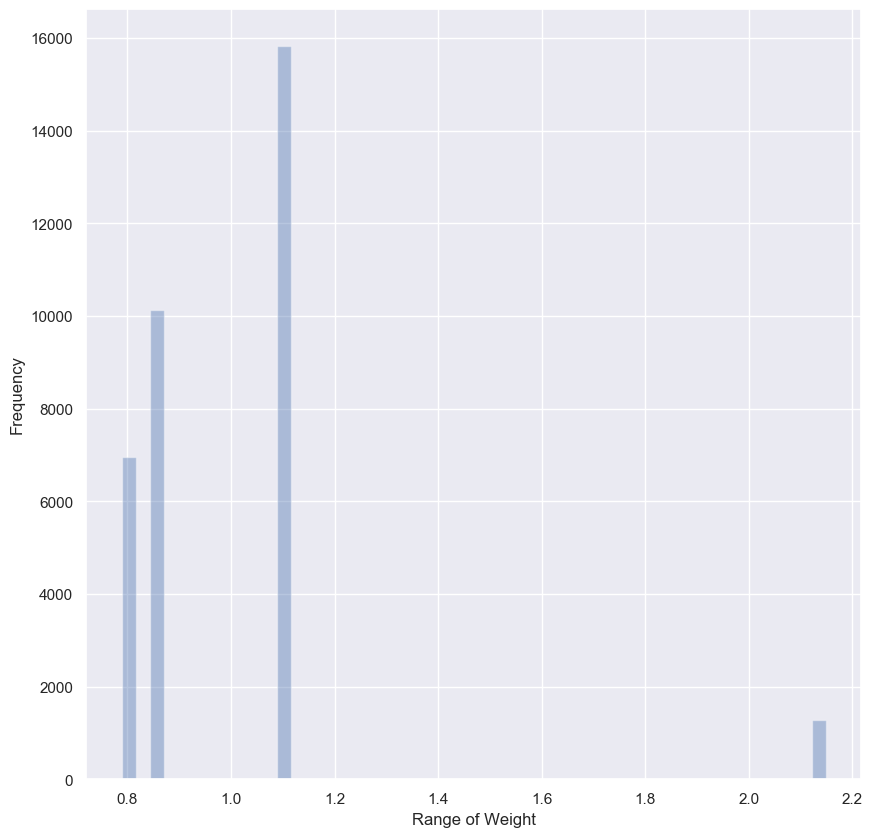
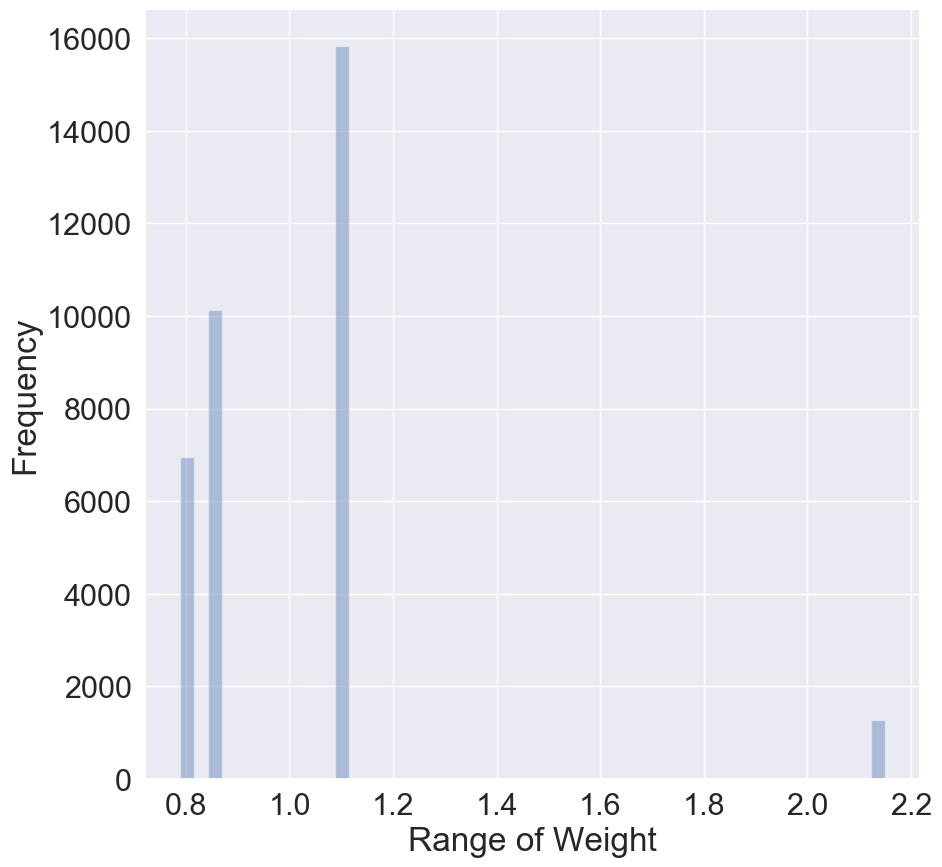
Fully working code with cross validation plots

diff --git a/intro.py b/intro.py
@@ -65,35 +65,6 @@ def fit_classifier(classifier, weights, lambda_values, X_train, y_train, X_test,
     return accuracy_list, equal_opp_list, stat_parity_list
 
 
-def plot_analysis(filename, lambda_values, accuracy_list, fairness_metric_list, fairness_metric):
-    '''
-    Function to plot graph with performance of different classifiers
-    
-    Args: 
-        filename: name of file to store the plot
-        accuracy_list: test accuracy for each model
-        fairness_metric_list: Fairness metric list for each model
-        fairness_metric: Fairness metric label
-    '''    
-    plt.xscale("log")
-    ax = sns.lineplot(x=lambda_values, y=fairness_metric_list, label=fairness_metric)
-    ax2 = ax.twinx()
-    sns.lineplot(x=lambda_values, y=accuracy_list, color="g", ax=ax2, label="Accuracy")
-    ax.figure.legend()
-    ax.set_xlabel(r'Lambda ($\lambda$)')
-    ax.set_ylabel(fairness_metric)
-    ax2.set_ylabel(r'Accuracy')
-    ax.legend().remove()
-    ax2.legend().remove()
-    ax.set_yticks(np.linspace(ax.get_yticks()[0], ax.get_yticks()[-1], 8))
-    ax2.set_yticks(np.linspace(ax2.get_yticks()[0], ax2.get_yticks()[-1], 8))
-    ax.set_yticklabels(['{:.3f}'.format(float(t)) for t in ax.get_yticks()])
-    ax2.set_yticklabels(['{:.3f}'.format(float(t)) for t in ax2.get_yticks()])
-    plt.savefig(f'{filename}.png', bbox_inches='tight')    
-    # plt.show()
-    plt.clf()
-
-
 def k_fold_statistics(k_folds, classifier, lambda_value, dataset, unprivileged_groups, privileged_groups):
     '''
     Function to fit classifier to k number of random train/test splits
@@ -147,30 +118,63 @@ def k_fold_statistics(k_folds, classifier, lambda_value, dataset, unprivileged_g
     accuracy_list = np.array(accuracy_list)
     equal_opp_list = np.array(equal_opp_list)
     stat_parity_list = np.array(stat_parity_list)
-    print(f'The mean accuracy for lambda={lambda_value:.3f} is: \n Mean Accuracy: {np.mean(accuracy_list):.3f}, Std: {np.std(accuracy_list):.3f} \n Mean Equal Opportunity: {np.mean(equal_opp_list):.3f}, Std: {np.std(equal_opp_list):.3f}')
+    print(f'The mean accuracy for lambda={lambda_value:.3f} is:')
+    print(f'Mean Accuracy: {np.mean(accuracy_list):.3f}, Std: {np.std(accuracy_list):.3f}')
+    print(f'Mean Equal Opportunity: {np.mean(equal_opp_list):.3f}, Std: {np.std(equal_opp_list):.3f}') 
+    print(f'Mean Statistical Parity: {np.mean(stat_parity_list):.3f}, Std: {np.std(stat_parity_list):.3f}')
     
     return accuracy_list, equal_opp_list, stat_parity_list
 
 
-if __name__ == "__main__":
-
-    #******************
-    # Step 0 - Choose Dataset and classifier type
-    data_choice = "adult"
-    classifier_choice = "Logistic Regression"
-
-    #*******************    
-    # Step 1 - Get data and plot distribution
-    privileged_groups = [{'sex': 1}]
-    unprivileged_groups = [{'sex': 0}]
-    if data_choice == "adult":
-        dataset_orig = load_preproc_data_adult(['sex'])
-    elif data_choice == "compas":
-        dataset_orig = load_preproc_data_compas(['sex'])
-    else:
-        dataset_orig = load_preproc_data_german(['sex'])
-    print(dataset_orig)
+def plot_analysis(filename, lambda_values, accuracy_list, fairness_metric_list_1, fairness_metric_1,
+                    fairness_metric_list_2, fairness_metric_2,):
+    '''
+    Function to plot graph with performance of different classifiers
     
+    Args: 
+        filename: name of file to store the plot
+        accuracy_list: test accuracy for each model
+        fairness_metric_list_1: Fairness metric list for each model
+        fairness_metric_1: Fairness metric label
+        fairness_metric_list_2: Fairness metric list for each model
+        fairness_metric_2: Fairness metric label
+
+    '''    
+    sns.set(font_scale=2)
+    plt.xscale("log")
+    ax = sns.lineplot(x=lambda_values, y=fairness_metric_list_1, label=fairness_metric_1)
+    ax = sns.lineplot(x=lambda_values, y=fairness_metric_list_2, label=fairness_metric_2)
+    ax2 = ax.twinx()
+    sns.lineplot(x=lambda_values, y=accuracy_list, color="g", ax=ax2, label="Accuracy")
+    ax.figure.legend()
+    ax.set_xlabel(r'Lambda ($\lambda$)')
+    ax.set_ylabel('Fairness Metric Difference')
+    ax2.set_ylabel(r'Accuracy')
+    ax.legend().remove()
+    ax2.legend().remove()
+    ax.set_yticks(np.linspace(ax.get_yticks()[0], ax.get_yticks()[-1], 8))
+    ax2.set_yticks(np.linspace(ax2.get_yticks()[0], ax2.get_yticks()[-1], 8))
+    ax.set_yticklabels(['{:.3f}'.format(float(t)) for t in ax.get_yticks()])
+    ax2.set_yticklabels(['{:.3f}'.format(float(t)) for t in ax2.get_yticks()])
+    plt.savefig(f'{filename}.png', bbox_inches='tight')    
+    # plt.show()
+    plt.clf()
+
+
+
+def plot_distribution(dataset_orig, data_choice):
+    '''
+    Function to plot the data distribution - label for each of the sensitive features
+    
+    Args:
+        k_folds: number of folds of statistics
+        classifier: SVM or Logistic regression
+        weights: weights for each sample
+        lambda_value: selected level of regularisation
+        dataset: dataset to be used
+
+    '''
+
     female_filter = (dataset_orig.features[:,1])==0
     male_filter = (dataset_orig.features[:,1])==1
     female_1 = np.count_nonzero(dataset_orig.labels[female_filter]==1)
@@ -178,11 +182,18 @@ if __name__ == "__main__":
     male_1 = np.count_nonzero(dataset_orig.labels[male_filter]==1)
     male_0 = np.count_nonzero(dataset_orig.labels[male_filter]==0)
 
-    df = pd.DataFrame({
-    'Sex': ['Male', 'Female'],
-    'Income > $50,000': [male_0, female_0],
-    'Income <= $50,000': [male_1, female_1]
-    })
+    if data_choice == "adult":
+        df = pd.DataFrame({
+        'Sex': ['Male', 'Female'],
+        'Income > $50,000 (Label 1)': [male_1, female_1],
+        'Income <= $50,000 (Label 0)': [male_0, female_0]
+        })
+    else:
+        df = pd.DataFrame({
+        'Sex': ['Male', 'Female'],
+        'Did recid. (Label 1)': [male_1, female_1],
+        'No recid. (Label 0)': [male_0, female_0]
+        })        
     sns.set(font_scale=2)
     fig, ax1 = plt.subplots(figsize=(10, 10))
     tidy = df.melt(id_vars='Sex').rename(columns=str.title)
@@ -190,28 +201,47 @@ if __name__ == "__main__":
     sns.despine(fig)
     plt.savefig(f'{data_choice}_distribution.png', bbox_inches='tight')    
     # plt.show()
+    plt.clf()
 
+
+
+if __name__ == "__main__":
+
+    #******************
+    # Step 0 - Choose Dataset and classifier type
+    data_choice = "adult" # "compas" or "adult"
+    classifier_choice = "Logistic Regression" # "SVM" or "Logistic Regression"
+
+    #*******************    
+    # Step 1 - Get data and plot distribution
+    privileged_groups = [{'sex': 1}]
+    unprivileged_groups = [{'sex': 0}]
+    if data_choice == "adult":
+        dataset_orig = load_preproc_data_adult(['sex'])
+    else:
+        dataset_orig = load_preproc_data_compas(['sex'])
+ 
     #*******************
     # Step 2 - Split into train and test and normalise
     train, test = dataset_orig.split([0.7], shuffle=True)
-    print(train.feature_names)
-    # print(train.labels)
     scale_orig = StandardScaler()
     X_train = scale_orig.fit_transform(train.features)
     y_train = train.labels.ravel()
     X_test = scale_orig.transform(test.features)
     y_test = test.labels.ravel()
     test_pred = test.copy()
+    plot_distribution(dataset_orig, data_choice)
 
-    exit()
     #*******************
     # Step 3 - Train machine Learning classifier and plot results
-    lambda_values = np.logspace(0,10, num=50)
-    # lambda_values = np.logspace(0,2, num=50)
+    if classifier_choice == "Logistic Regression":
+        lambda_values = np.logspace(0,10, num=50)
+    else:
+        lambda_values = np.logspace(0,3, num=50)
     accuracy_list, equal_opp_list, stat_parity_list = fit_classifier(classifier_choice, train.instance_weights, lambda_values, 
                                                     X_train, y_train, X_test, y_test, test_pred)
-    plot_analysis(f'{data_choice}_unweighted_{classifier_choice}_equal', lambda_values, accuracy_list, equal_opp_list, "Equal Opport. Difference")
-    plot_analysis(f'{data_choice}_unweighted_{classifier_choice}_stat', lambda_values, accuracy_list, stat_parity_list, "Statistical Parity")
+    plot_analysis(f'{data_choice}_unweighted_{classifier_choice}', lambda_values, accuracy_list, equal_opp_list,
+                    "Equal Opport. Difference", stat_parity_list, "Statistical Parity")
 
     #*******************
     # Step 5 - Perform Reweighing, fit classifiers and plot results
@@ -219,11 +249,8 @@ if __name__ == "__main__":
     train = RW.fit_transform(train)
     accuracy_list, equal_opp_list, stat_parity_list = fit_classifier(classifier_choice, train.instance_weights, lambda_values, 
                                                     X_train, y_train, X_test, y_test, test_pred)
-    plot_analysis(f'{data_choice}_weighted_{classifier_choice}_equal', lambda_values, accuracy_list, equal_opp_list, "Equal Opport. Difference")
-    plot_analysis(f'{data_choice}_weighted_{classifier_choice}_stat', lambda_values, accuracy_list, stat_parity_list, "Statistical Parity")
-    # Plot weight values after re-weighting samples
-    # ax = sns.scatterplot(x=np.arange(len(train.instance_weights)),y=train.instance_weights,hue=y_train,
-    #                     s=25)
+    plot_analysis(f'{data_choice}_weighted_{classifier_choice}', lambda_values, accuracy_list, equal_opp_list, 
+                    "Equal Opport. Difference", stat_parity_list, "Statistical Parity")
     ax = sns.distplot(train.instance_weights, kde=False)
     ax.set_xlabel(r'Range of Weight')
     ax.set_ylabel('Frequency')
